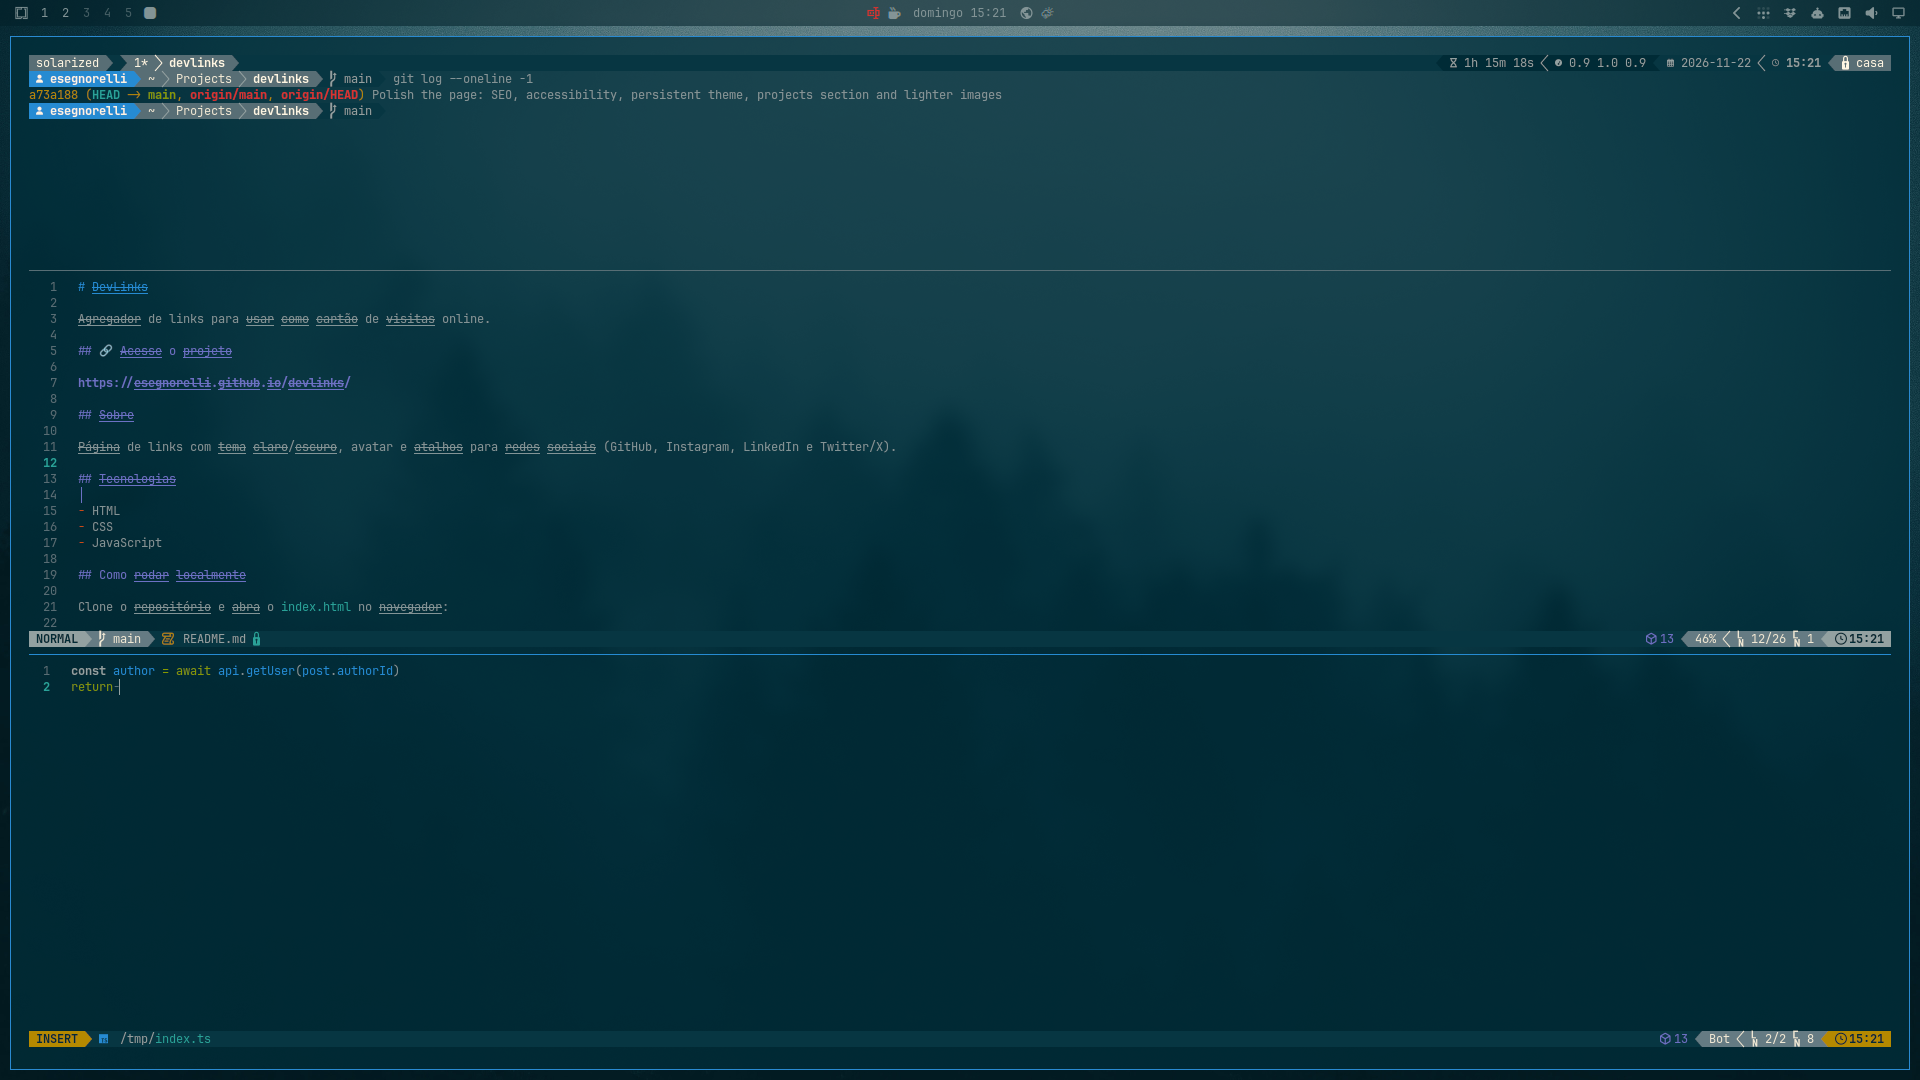
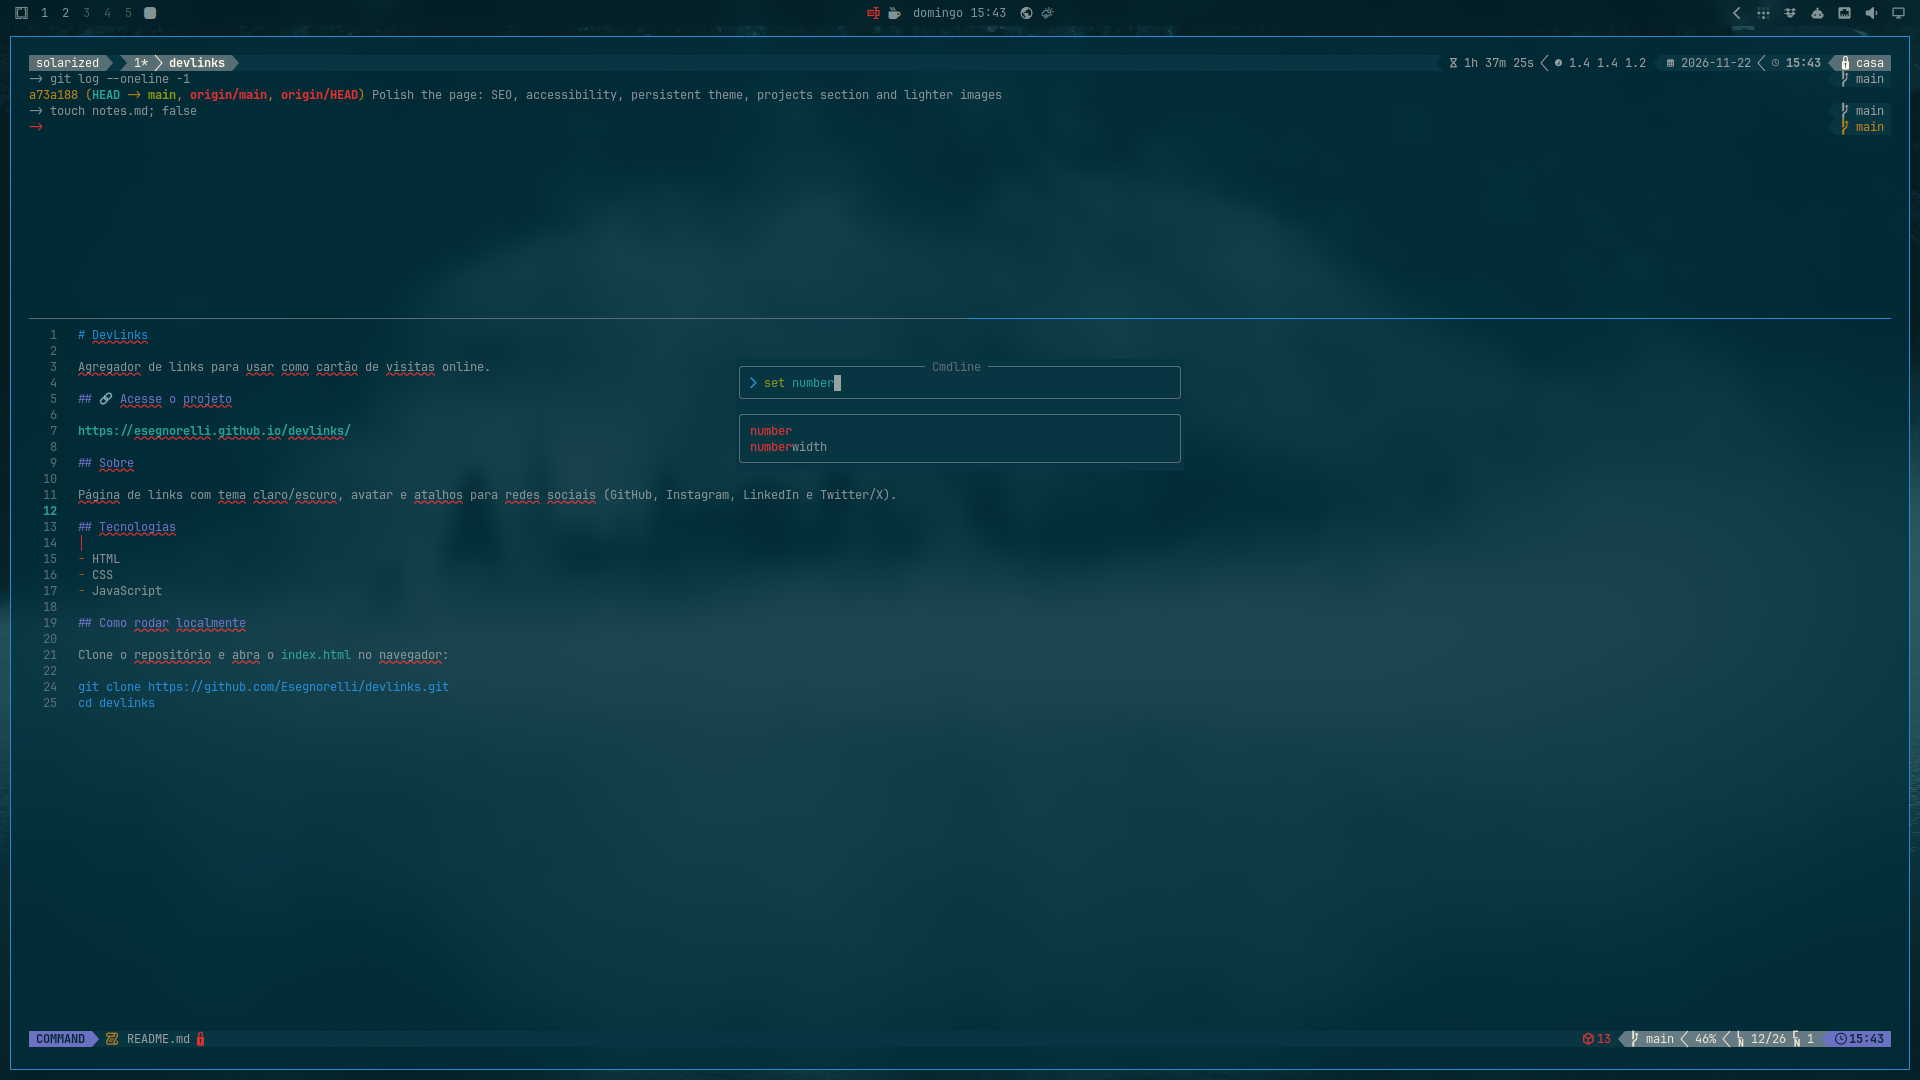
Solarized Dark: canonical Neovim highlights, arrow prompt, branch on the right
- neovim.lua: fold solarized.nvim's off-palette tones (base04, mix_*) into
  base02 and restore vim-colors-solarized's mapping; solid base02 floats so the
  noice command line and completion menus no longer mix see-through interiors
  with opaque #002731 borders; SpellBad undercurl instead of strikethrough;
  LspInlayHint base01 instead of an inline cyan shade; noice's
  command-line completion list drawn with NoicePopupmenu instead of the
  see-through Normal
- bash: one-line "-> " prompt (red after a failure) with the Powerline branch
  segment drawn at the right edge; theme "branch" replaces default_leftonly
- lualine: branch moved to the right side
- README and screenshot

diff --git a/README.md b/README.md
@@ -18,16 +18,16 @@ a configuração de Neovim que o acompanha e um prompt/status line
 | `omarchy/themes/solarized-dark/colors.toml` | Paleta do tema; o Omarchy gera dela as configs dos apps sem arquivo próprio (alacritty, btop, VS Code…) |
 | `omarchy/themes/solarized-dark/ghostty.conf` | Ghostty: ANSI canônico do Solarized e cursor base1 |
 | `omarchy/themes/solarized-dark/foot.ini` | foot: a mesma paleta do Ghostty |
-| `omarchy/themes/solarized-dark/neovim.lua` | Neovim/LazyVim com `maxmx03/solarized.nvim` e status line sólida no estilo Solarized do vim-airline |
+| `omarchy/themes/solarized-dark/neovim.lua` | Neovim/LazyVim com `maxmx03/solarized.nvim` no mapeamento oficial do vim-colors-solarized, janelas flutuantes sólidas em base02 e status line no estilo Solarized do vim-airline |
 | `omarchy/themes/solarized-dark/unlock.png` | Logo das telas de desbloqueio do disco (Plymouth), desligamento e login (SDDM) |
 | `omarchy/themes/solarized-dark/backgrounds/` | Wallpapers CC0 (fontes em `CREDITS.md`) |
 | `nvim/lua/plugins/all-themes.lua` | Instala o solarized.nvim para o hot-reload de tema do Omarchy |
-| `powerline/config.json` | Powerline: esquema `solarized` em truecolor, tema `default_leftonly` no bash |
+| `powerline/config.json` | Powerline: esquema `solarized` em truecolor, tema `branch` no bash |
 | `powerline/themes/nerd.json` | Tema de nível superior do Powerline: separadores e ícones Nerd Font |
-| `powerline/themes/shell/default_leftonly.json` | Ordem dos segmentos do bash: branch à direita da pasta, como no Starship, amarela com mudanças |
-| `bash/powerline.bash` | Liga o prompt do Powerline no bash e tira o Starship que o Omarchy ativa |
+| `powerline/themes/shell/branch.json` | Segmento da direita do prompt: branch com  (U+E0A0), amarela quando há mudanças |
+| `bash/powerline.bash` | Prompt `-> ` (vermelho depois de um comando com erro) com a branch encostada na borda direita da mesma linha; tira o Starship que o Omarchy ativa |
 | `tmux/tmux.conf` | tmux do Omarchy com a status line do Powerline |
-| `nvim/lua/plugins/lualine-powerline.lua` | Separadores Powerline no lualine do LazyVim |
+| `nvim/lua/plugins/lualine-powerline.lua` | Separadores e símbolos Powerline no lualine do LazyVim; branch no lado direito |
 
 ## Paleta
 
@@ -49,6 +49,17 @@ Diferenças em relação ao Solarized clássico, ambas de propósito:
 - **Brights mantêm as cores** (o clássico transforma quase todos em cinzas),
   com o laranja (9) e o violeta (13) do Solarized.
 
+### Neovim
+
+O solarized.nvim muda papéis do Solarized e cria tons fora da paleta
+(`#002731` e misturas). O `neovim.lua` do tema volta ao mapeamento do
+vim-colors-solarized oficial: constantes e strings cyan, identificadores azul,
+instruções verde, preprocessador laranja, tipos amarelo, especiais vermelho,
+TODO magenta, comentários base01 em itálico. Erros de ortografia ficam com
+sublinhado ondulado (vermelho, violeta, cyan, amarelo). O editor continua
+transparente como no glass do Omarchy; linha de comando, menus e janelas
+flutuantes usam base02 sólido.
+
 ## Tela de desbloqueio e desligamento
 
 ![Tela de desbloqueio do disco em Solarized Dark](omarchy/themes/solarized-dark/preview-unlock.png)
@@ -60,14 +71,14 @@ reiniciar; o login (SDDM) usa o mesmo fundo e logo.
 
 ![Prompt do bash, status do tmux e Neovim com Powerline em Solarized Dark](.github/screenshots/powerline.png)
 
-- **bash**: usuário, virtualenv, diretório, branch git (amarela quando há
-  mudanças), jobs em segundo plano e código de saída do último comando quando
-  falha.
+- **bash**: prompt `-> ` (vermelho quando o último comando falha) e a branch git
+  encostada na borda direita da mesma linha, amarela quando há mudanças.
 - **tmux** (barra no topo): sessão, janelas, uptime, carga, data, hora e host.
-- **Neovim**: status line do lualine com as cores do tema Solarized do
-  vim-airline (modo em base1/amarelo/magenta/vermelho/violeta, branch sobre
-  base00, arquivo sobre base02). O binding de Vim do Powerline 2.8.4 não roda no
-  Neovim 0.12: chama `.decode()` na `str` que o pynvim devolve.
+- **Neovim**: status line do lualine com branch à direita, as cores do tema
+  Solarized do vim-airline (modo em base1/amarelo/magenta/vermelho/violeta,
+  branch sobre base00, arquivo sobre base02). O binding de Vim do Powerline
+  2.8.4 não roda no Neovim 0.12: chama `.decode()` na `str` que o pynvim
+  devolve.
 
 Todos os símbolos do Powerline estão em uso:
 
@@ -78,7 +89,7 @@ Todos os símbolos do Powerline estão em uso:
 |  | U+E0A0 | Branch git (bash, Neovim) |
 |  | U+E0A1 | Linha atual/total (Neovim) |
 |  | U+E0A3 | Coluna (Neovim) |
-|  | U+E0A2 | Arquivo somente leitura (Neovim); host via SSH (bash) e no tmux |
+|  | U+E0A2 | Arquivo somente leitura (Neovim); host no tmux |
 
 Eles e os demais ícones vêm da JetBrainsMono Nerd Font, sem `powerline-fonts`.
 O esquema usa os hex do Solarized (`term_truecolor`): os índices de 256 cores
